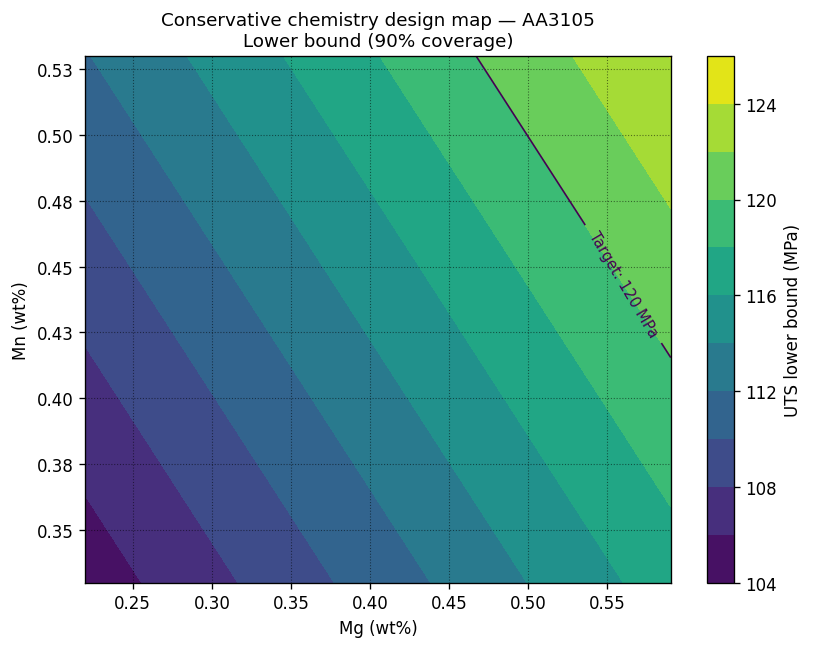
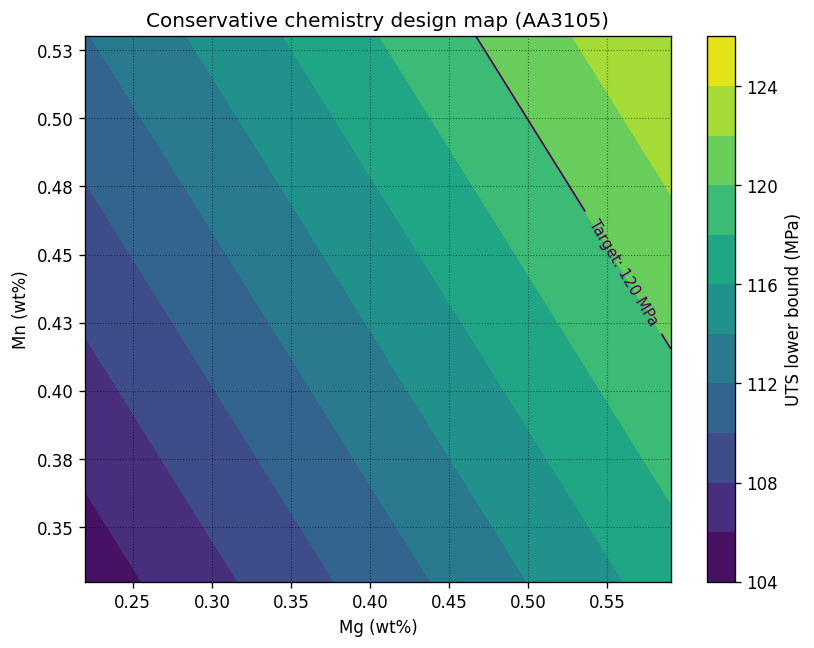
WIP: 10 new readme format was loaded

diff --git a/README.md b/README.md
@@ -1,158 +1,185 @@
-# SQL & Analytics Engineering Portfolio  
-**From Reproducible Data Models to Engineering Design Tools**
+# Analytics Engineering Portfolio  
+**From Industrial Data to Decision-Ready Standards Under Uncertainty**
 
 ---
 
-## Overview
+## Executive Thesis
 
-This repository presents a curated portfolio of analytics and modeling study cases built on real industrial metallurgy data.
+This portfolio documents how **industrial manufacturing data** can be transformed into:
 
-The focus is not on isolated machine learning experiments, but on **end-to-end analytical reasoning**:
-from reproducible data modeling, through conservative predictive analysis, to **engineering-ready decision tools**.
+- reproducible analytics foundations,
+- conservative and interpretable analytical models,
+- and **decision-ready engineering tools**,
 
-All study cases originate from a real manufacturing problem and are organized as a **coherent analytical roadmap**, not as standalone demos.
+used to define **internal standards** and reduce operational risk **under uncertainty**.
 
----
+The work reflects system-level thinking at the intersection of **analytics engineering**, **applied data science**, and **industrial decision support**.
 
-## Key Outcome
+![Robust chemistry design map illustrating conservative decision regions](assets/sc5_design_map.png)
 
-The final outcome of this work is a set of **uncertainty-aware chemistry design maps**
-that allow engineers to:
-
-- infer feasible chemical compositions from a target UTS,
-- identify robust regions that satisfy mechanical requirements under uncertainty,
-- and make conservative release or design decisions without physical trial campaigns.
-
-These tools were used in practice to define internal chemistry standards,
-resulting in a measurable reduction in external quality claims.
-
-![Conservative chemistry design map — AA3105](assets/sc5_design_map.png)
-
-*Example of a conservative chemistry design map (lower bound, 90% coverage) highlighting robust composition regions that satisfy a 120 MPa UTS target.*
+*Example of a human-readable, uncertainty-aware chemistry design map.
+The surface represents a conservative estimate of mechanical performance, while the highlighted target line indicates compositions that meet the design criterion with an explicit safety margin. This map illustrates how analytical models are translated into practical decision tools rather than point predictions.*
 
 ---
 
-## Start Here
+## Industrial Problem Context
 
-If you want a fast overview:
+This portfolio originated from a real quality problem in a flat-rolled aluminum operation.
 
-- **SC5 — Design maps (final outcome):** uncertainty-aware chemistry maps used for conservative engineering decisions  
-- **SC1 — Data foundation:** how the reproducible SQL semantic layer was designed  
-- **SC2 — Baseline modeling:** establishing chemistry-only predictive signal and uncertainty
-
----
-
-
-## Real-World Motivation
-
-This work originated in a flat-rolled aluminum manufacturing environment facing recurring quality issues and external customer claims.
-
-Despite meeting industry standards (AA specifications), materials exhibited:
-- unstable mechanical performance,
-- excessive variability,
-- downstream processing issues,
-- and inconsistent customer outcomes.
+Despite operating within AA specification limits, the organization experienced recurring quality issues and customer claims driven by **mechanical performance variability materials** perceived as too hard, too soft, or unstable in downstream forming.
 
 Root cause analysis revealed a structural gap:
-- no internal chemistry design standards,
-- no internal mechanical targets,
-- and decisions driven solely by specification compliance rather than performance robustness.
 
-Physical trial campaigns to define better standards were impractical due to cost and operational risk.
+- absence of internal chemistry standards,
+- absence of internal mechanical performance targets,
+- release decisions driven by compliance rather than design intent.
 
-The objective of this portfolio is therefore:
-
-> **To show how industrial data can be used to define internal design ranges and decision tools that reduce risk, without relying on extensive physical experimentation.**
-
----
-
-## Portfolio Roadmap
-
-Each study case answers a specific question raised by the previous one.
-
-| Study Case | Focus |
-|-----------|-------|
-| **SC1** | From spreadsheets to a reproducible SQL analytics foundation |
-| **SC2** | Chemistry-only baseline predictive modeling |
-| **SC3** | Generalization across alloy systems |
-| **SC4** | Screening which additional variables are worth measuring |
-| **SC5** | Uncertainty-aware chemistry design maps for engineering decisions |
-
-The cases are intended to be read **in order**, but each one is self-contained.
+Physical trial campaigns to define internal standards were costly and operationally constrained.  
+This portfolio explores whether **data-driven modeling** can act as a complementary design tool to define **conservative, defensible internal standards**.
 
 ---
 
 ## What This Portfolio Demonstrates
 
-- Designing **reproducible SQL-based semantic layers** for industrial analytics
-- Treating data modeling as an analytical discipline
-- Evaluating predictive signal **before increasing model complexity**
-- Quantifying uncertainty and tail risk
-- Translating models into **engineering decision tools**
-- Prioritizing **interpretability, robustness, and decision value** over metric optimization
+Rather than isolated projects, this portfolio demonstrates the ability to design and connect:
+
+- **Reproducible data foundations**  
+  Stable analytical semantics, explicit grain, and traceability.
+
+- **Disciplined modeling pipelines**  
+  Signal validation, leakage-aware evaluation, and conservative assumptions.
+
+- **Uncertainty-aware decision tools**  
+  Translating models into artifacts engineers can actually use.
+
+The emphasis is not on algorithmic novelty, but on **trust, robustness, and decision value**, supporting standards definition, **risk reduction**, and **process stability**.
 
 ---
 
-## Guiding Principles
+## Portfolio Structure (System View)
 
-**Data before models**  
-Trustworthy analysis starts with a clearly defined data grain and stable semantics.
+Each study case answers a question raised by the previous one. Together, they form a coherent analytical system:
 
-**Signal before complexity**  
-Simple models are explored first to understand predictive limits and uncertainty sources.
+### SC01 — Reproducible Analytics Foundation  
+**From Excel-based analysis to a SQL semantic layer**
 
-**Uncertainty is part of the answer**  
-Engineering decisions require calibrated uncertainty, not just point predictions.
+Designs a reproducible analytics foundation by replacing spreadsheet workflows with a SQL-based semantic layer that enforces grain, semantics, and traceability.   
+[View Study Case →](https://github.com/ivvza-io/sc01-from-excel-to-sql-analytics)
 
-**Engineering value over peak performance**  
-Models are evaluated by robustness, interpretability, and decision usefulness, not by chasing metric performance.
+→ Establishes the conditions required for trustworthy downstream analysis.
 
 ---
 
-## Additional Context
+### SC02 — Chemistry-Only Predictive Signal  
+**Can chemistry alone support conservative UTS standards?**
 
-For readers interested in the analytical rationale, design decisions, and trade-offs behind each study case, an extended document is available:
+Validates that chemistry contains meaningful, calibratable signal for UTS using simple, interpretable models and group-aware, out-of-fold evaluation.   
+[View Study Case →](https://github.com/ivvza-io/sc02-chemistry-only-mechanical-properties)
 
-**Extended README — Analytical Rationale, Design Decisions, and Modeling Philosophy** 
-- [`README_EXTENDED.md`](docs/README_EXTENDED.md)
+→ Demonstrates that internal standards can be grounded in data.
 
 ---
 
-## Technologies & Stack
 
-- **PostgreSQL** — data modeling and semantic layer  
-- **SQL** — staging, cleaning, analytics-ready views  
-- **Python** — analysis, modeling, uncertainty quantification  
-- **Git** — versioned, reproducible workflows  
+### SC03 — Generalization Across Alloy Systems  
+**Does the framework generalize beyond a single system?**
+
+Applies the same modeling pipeline across alloy systems to test generalization in principle, revealing system-dependent functional behavior.   
+[View Study Case →](https://github.com/ivvza-io/sc03-chemistry-generalization-across-systems)
+
+→ Establishes modeling approaches as transferable frameworks, not fixed formulas.
+
+---
+
+### SC04 — Variable Influence Screening  
+**Does added complexity actually reduce uncertainty?**
+
+Evaluates whether commonly measured, metallurgically motivated process variables provide incremental predictive value beyond chemistry.  
+[View Study Case →](https://github.com/ivvza-io/sc04-variable-influence-screening)
+
+→ Demonstrates disciplined restraint: complexity must earn its place.
+
+---
+
+### SC05 — Uncertainty-Aware Design Maps  
+**Turning models into decision-ready engineering tools**
+
+Transforms validated chemistry-only models into conservative design maps with explicit uncertainty margins and operational guardrails.   
+[View Study Case →](https://github.com/ivvza-io/sc05-uncertainty-aware-design-maps)
+
+→ Translates analytics into human-readable, uncertainty-aware standards and decision-support tools.
+
+---
+
+## How to Navigate the Portfolio
+
+- **README (per Study Case)**  
+  Executive-level, decision-oriented summaries with minimal but sufficient evidence.
+
+- **Technical Notes (per Study Case)**  
+  Detailed methodology, diagnostics, extended tables, and audit-level discussion.
+
+- **Notebooks**  
+  Full analytical evidence: code, experiments, and intermediate outputs.
+
+- **README_EXTENDED — Analytical System and Design Philosophy**  
+  Documents portfolio-wide analytical principles, validation conventions, and design rules.  
+  [Read the extended documentation →](docs/README_EXTENDED.md)
+
+> Short on time? Jump directly to [**SC05**](https://github.com/ivvza-io/sc05-uncertainty-aware-design-maps) to see the final decision-ready design tools.  
+
+---
+
+## Design Philosophy (Summary)
+
+Across all study cases, the portfolio follows consistent principles:
+
+- **Reproducibility before modeling**  
+- **Signal before sophistication**  
+- **Uncertainty as a first-class output**  
+- **Engineering value over metric optimization**
+
+These principles are documented in detail in the portfolio’s extended documentation.
+
+---
+
+## What This Portfolio Is — and Is Not
+
+### This portfolio *is*:
+- Industrially grounded and decision-oriented
+- Conservative by design
+- Focused on trust, robustness, and interpretability
+- Representative of senior-level analytical ownership
+
+### This portfolio is *not*:
+- A benchmark-chasing exercise
+- A collection of exotic algorithms
+- An academic modeling showcase
+- Metric optimization without operational context
 
 ---
 
 ## Intended Audience
 
-This portfolio is relevant for:
-- Data scientists working with **industrial or physical systems**
-- Analytics engineers bridging SQL, modeling, and decision-making
-- Process, product, or materials engineers interested in analytics
-- Hiring managers evaluating **end-to-end analytical maturity**
+This work is most relevant for:
+
+- Hiring managers evaluating **Senior Data Scientist / Analytics Engineer** profiles
+- Industrial analytics and data platform teams
+- Organizations operating under real variability, constraints, and risk
 
 ---
 
-## What This Portfolio Is Not
+## Closing Statement
 
-This is intentionally **not**:
-- a benchmark-focused ML portfolio,
-- a collection of advanced algorithms,
-- or a demonstration of model complexity for its own sake.
+> **Complexity is not the goal.  
+> Insight, trust, and decision value are.**
 
-It is a demonstration of how analytics can:
-- build trust in data,
-- define predictive limits,
-- justify complexity incrementally,
-- and support real engineering decisions.
+This portfolio demonstrates how disciplined analytics engineering and uncertainty-aware modeling can be used to define **defensible internal standards** and support real engineering decisions.
 
 ---
 
-## Status
+### Next Steps
 
-> This repository is under **active refinement**.  
-> Study cases SC1–SC5 are complete and may receive iterative polish, documentation improvements, and clarifications as the portfolio evolves.
+Each study case can be explored independently, but the full value emerges when read as a system, from data foundations to decision tools.
+
+Start with [**SC01**](https://github.com/ivvza-io/sc01-from-excel-to-sql-analytics.git) for context, or jump directly to [**SC05**](https://github.com/ivvza-io/sc05-uncertainty-aware-design-maps) to see the end-state.
